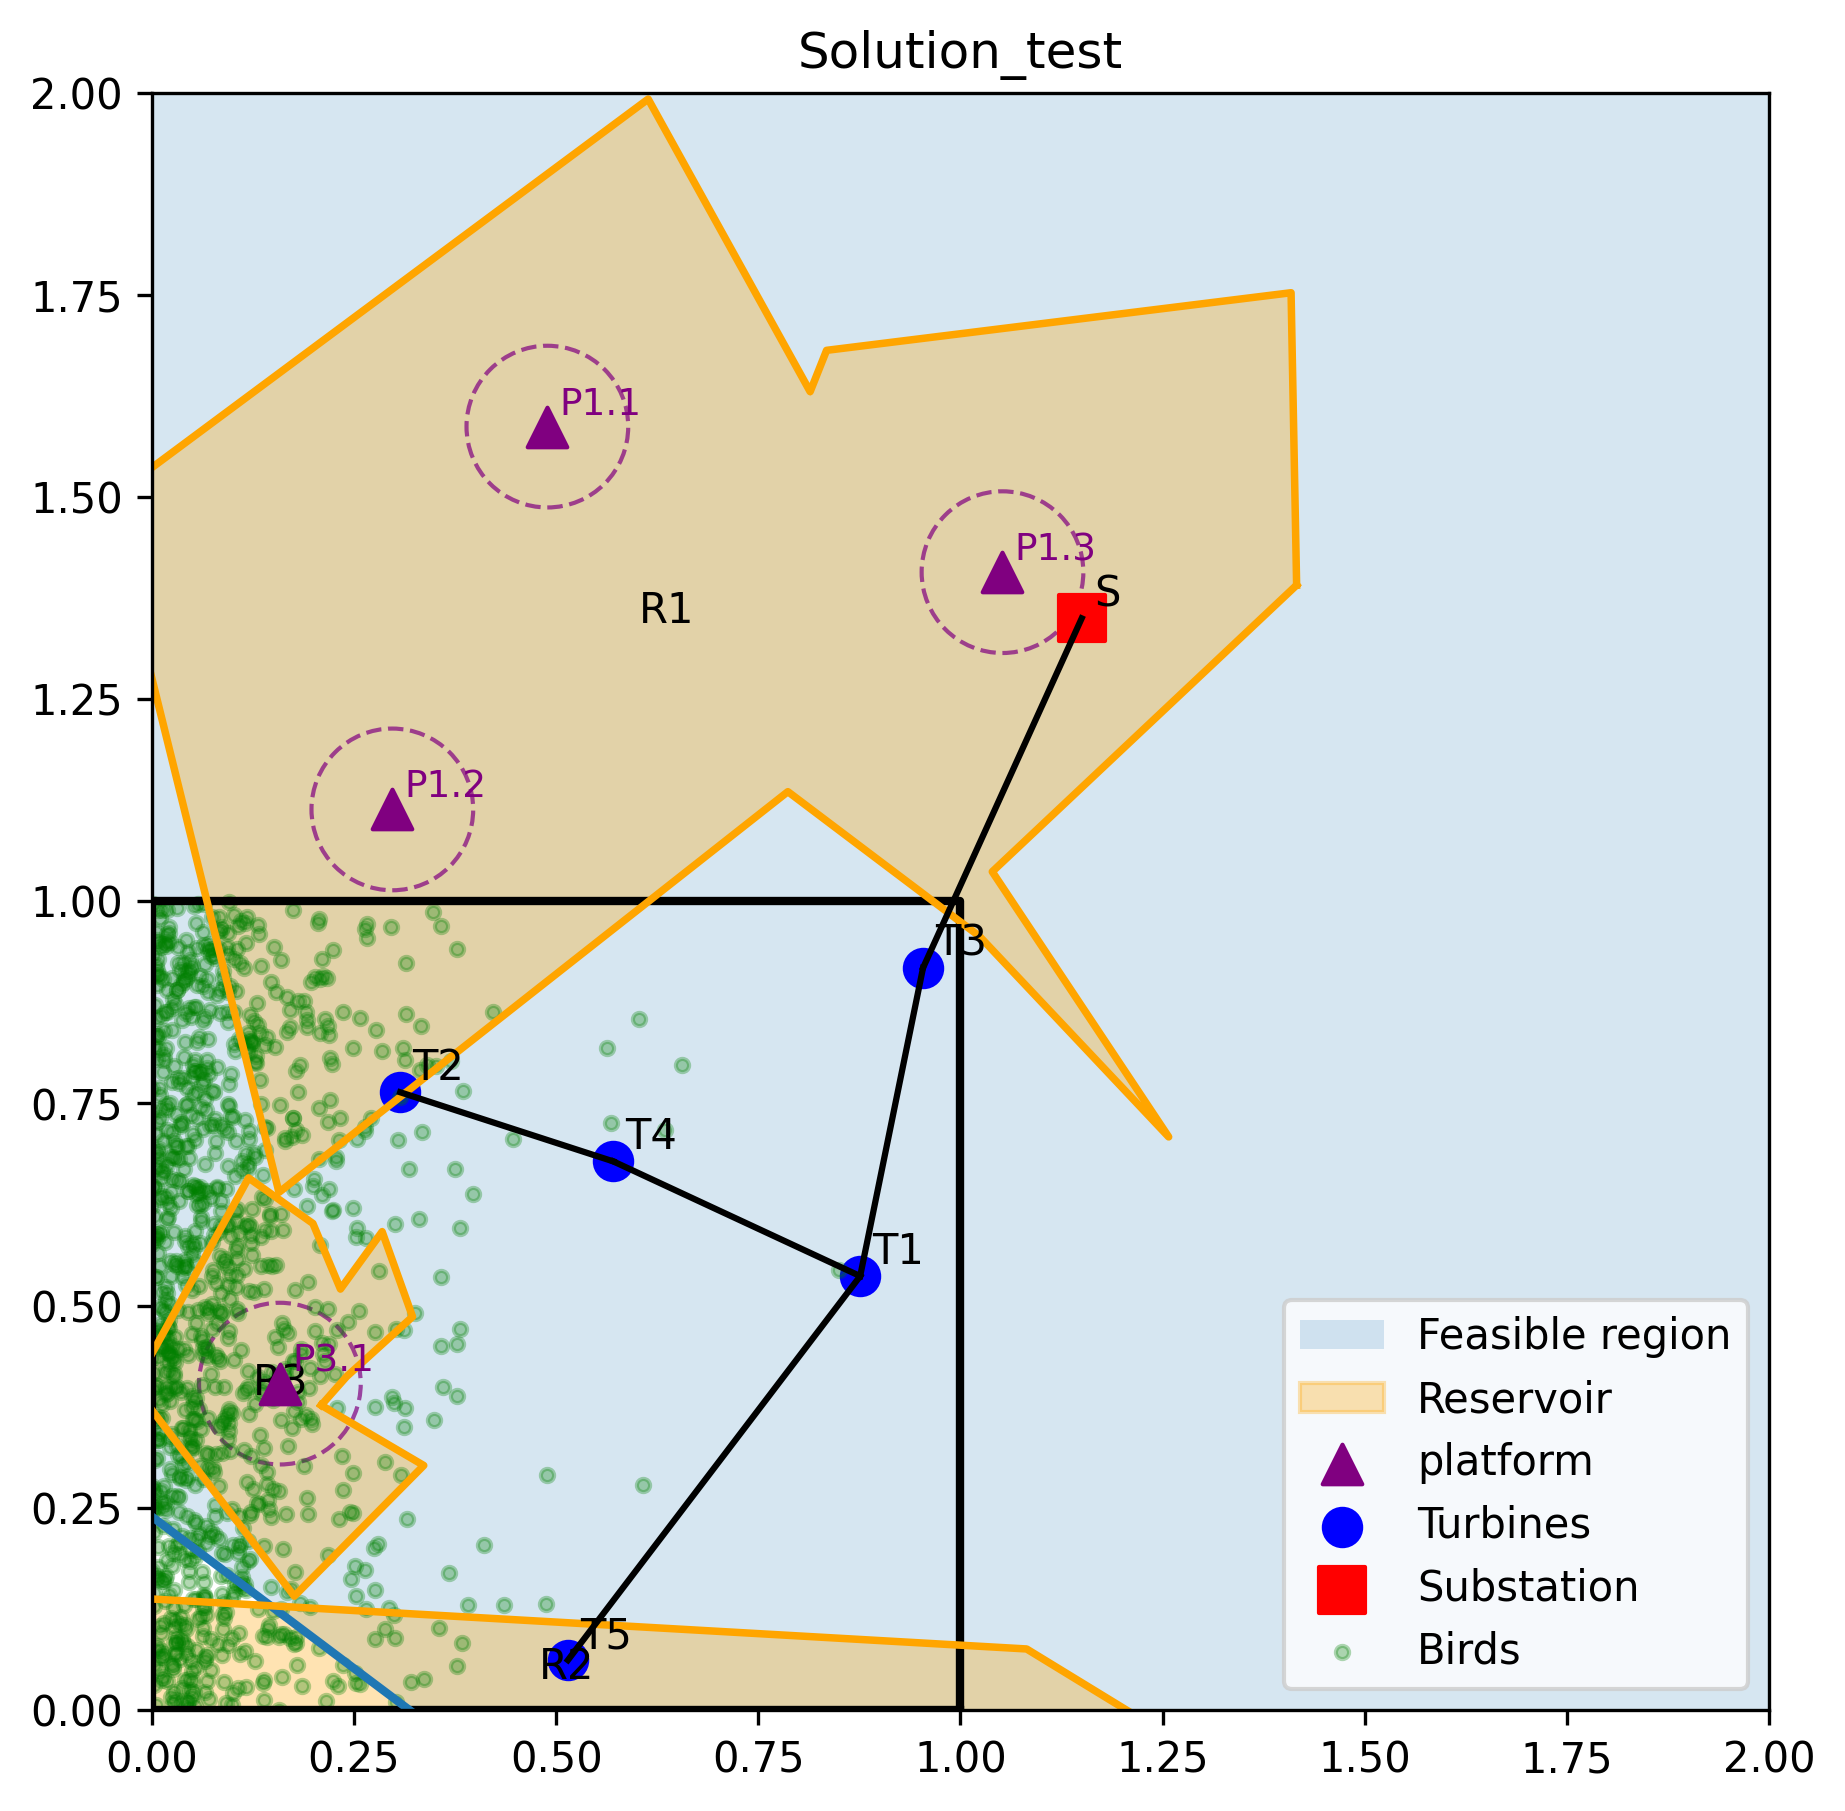
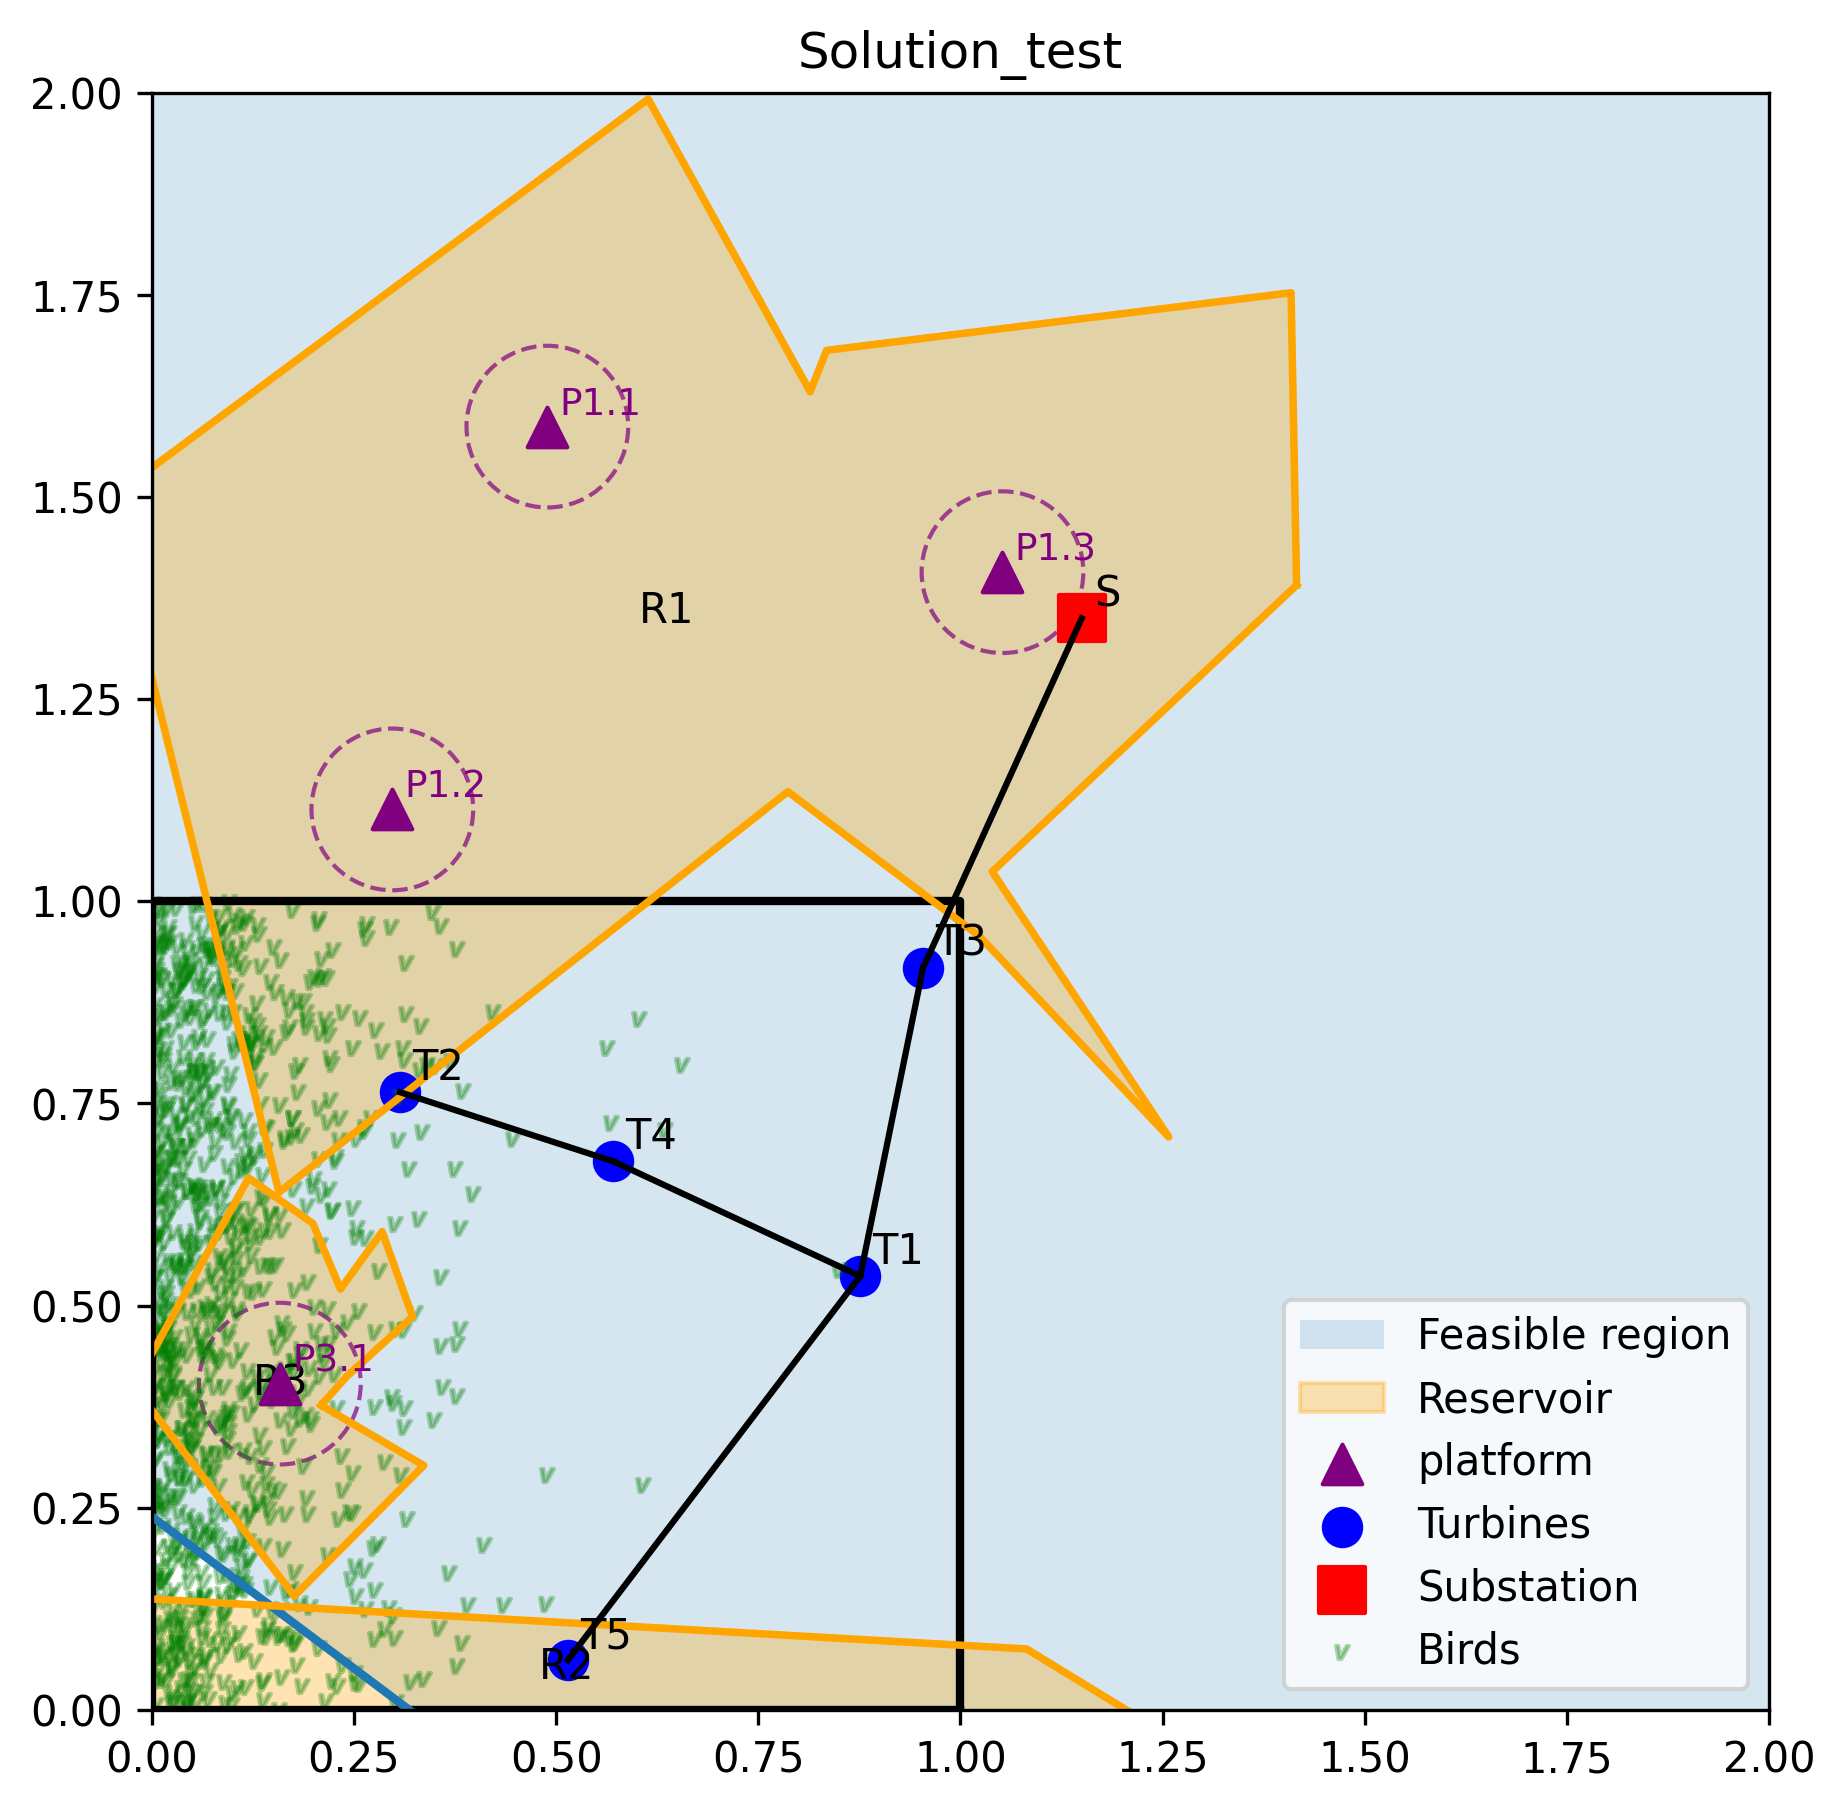
fix bugs in visualization.py

Changed region(s): [[0.0618, 0.4948, 0.2472, 0.9586], [0.2472, 0.8658, 0.278, 0.8967]]

diff --git a/generator/analysis/plot.py b/generator/analysis/plot.py
@@ -33,11 +33,11 @@ config = GeneratorConfig(
 
 # CSV_PATH = f"results/random_search_{problem_seed}_{algorithm_seed}.csv"
 
-# CSV_PATH = f"results/nsga2_{problem_seed}_{algorithm_seed}.csv"
+CSV_PATH = f"results/nsga2_{problem_seed}_{algorithm_seed}.csv"
 
 # CSV_PATH = f"results/qlognehvi_{problem_seed}_{algorithm_seed}.csv"
 
-CSV_PATH = f"results/qlognparego_{problem_seed}_{algorithm_seed}.csv"
+# CSV_PATH = f"results/qlognparego_{problem_seed}_{algorithm_seed}.csv"
 
 problems = generate_problem_instances(config)
 
@@ -97,15 +97,15 @@ plot_problem(
     len_plot=2,
     evaluator=evaluator,
     # title=f"random_search_{problem_seed}_{algorithm_seed}",
-    # title=f"nsga2_{problem_seed}_{algorithm_seed}",
+    title=f"nsga2_{problem_seed}_{algorithm_seed}",
     # title=f"qlognehvi_{problem_seed}_{algorithm_seed}",
-    title=f"qlognparego_{problem_seed}_{algorithm_seed}",
+    # title=f"qlognparego_{problem_seed}_{algorithm_seed}",
 
 
     # path=f"results/random_search_{problem_seed}_{algorithm_seed}.png"
-    # path=f"results/nsga2_{problem_seed}_{algorithm_seed}.png"
+    path=f"results/nsga2_{problem_seed}_{algorithm_seed}.png"
     # path=f"results/qlognehvi_{problem_seed}_{algorithm_seed}.png"
-    path=f"results/qlognparego_{problem_seed}_{algorithm_seed}.png"
+    # path=f"results/qlognparego_{problem_seed}_{algorithm_seed}.png"
 
 
 )

diff --git a/generator/visualization.py b/generator/visualization.py
@@ -110,7 +110,7 @@ def plot_problem(problem, x=None, hub=None, evaluator=None, len_plot=1.6, title:
         ys = x[n_turbines:]
         coords = np.column_stack((xs, ys))
 
-        ax.scatter(coords[:, 0], coords[:, 1], s=250, marker="1", color="blue", label="Turbines")
+        ax.scatter(coords[:, 0], coords[:, 1], s=80, marker="o", color="blue", label="Turbines")
         for i, (tx, ty) in enumerate(coords, start=1):
             ax.text(tx + 0.015, ty + 0.015, f"T{i}", fontsize=10)
 